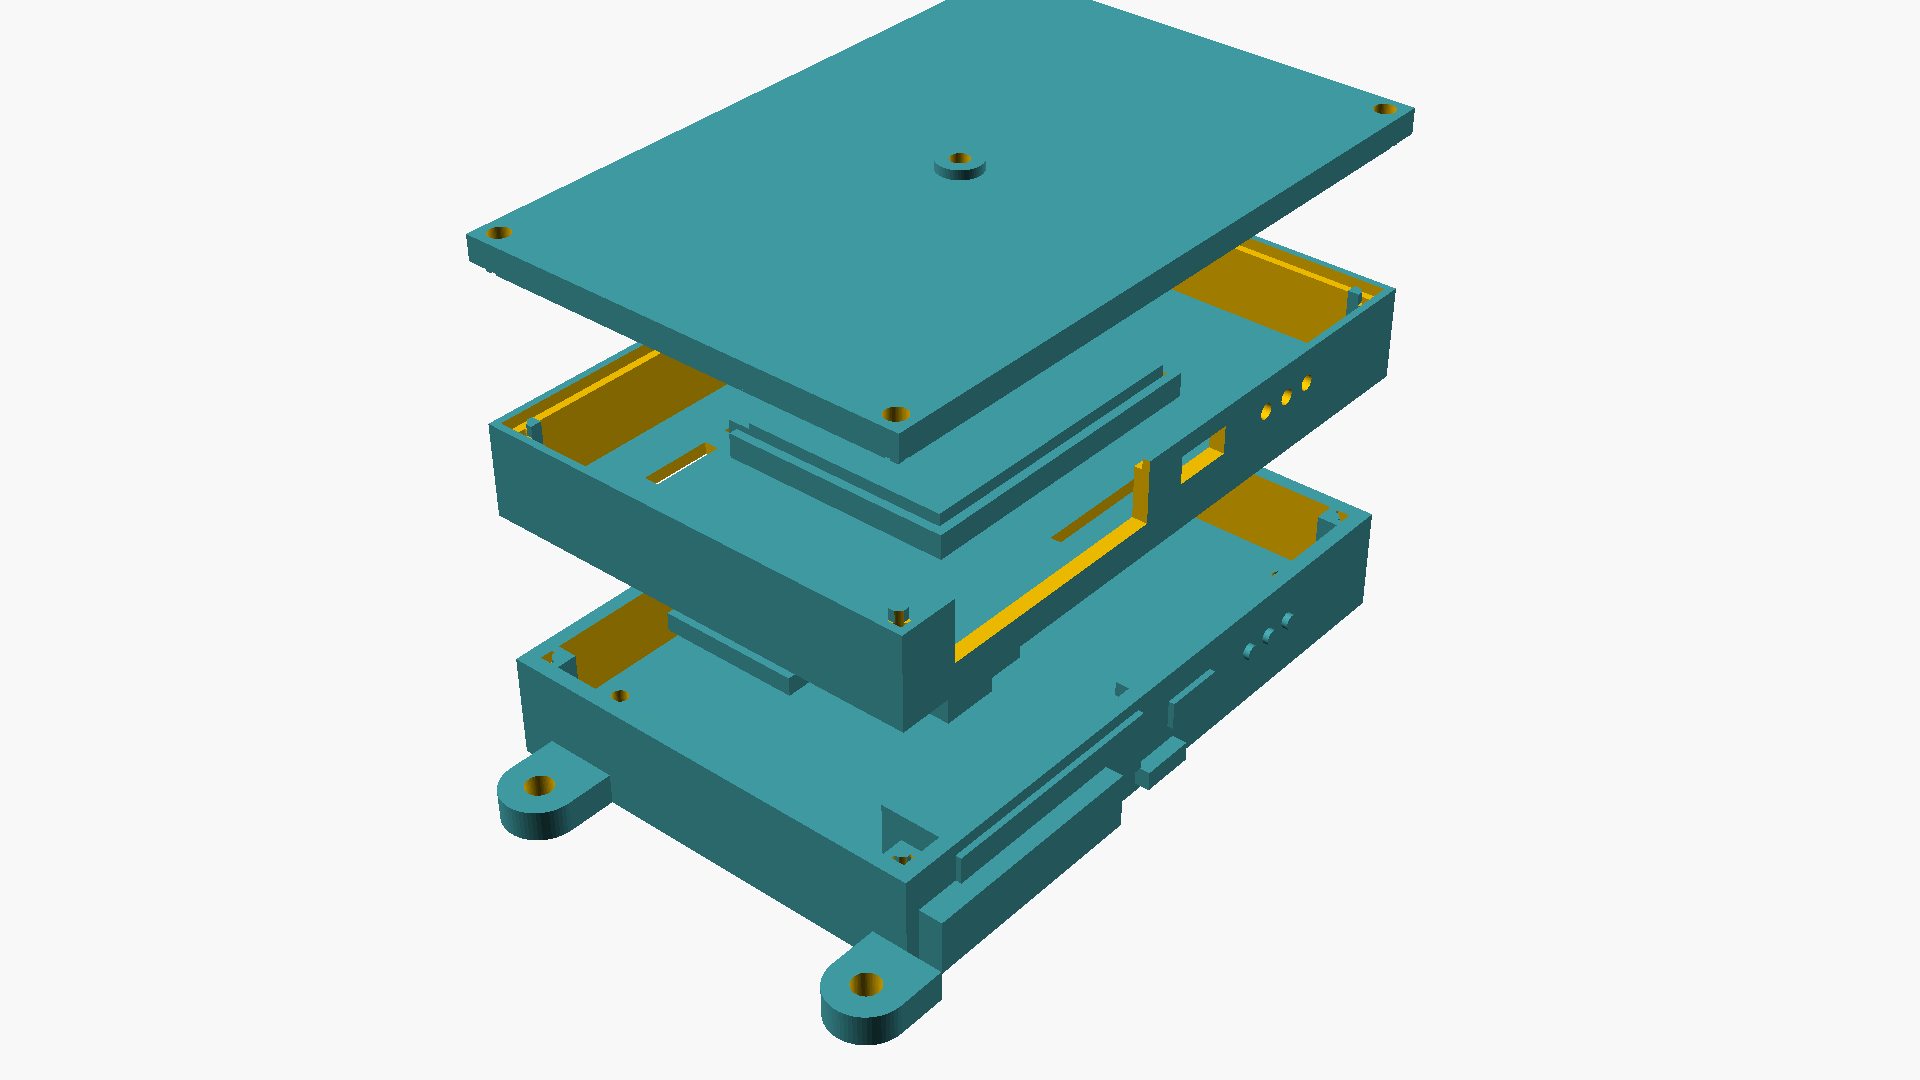
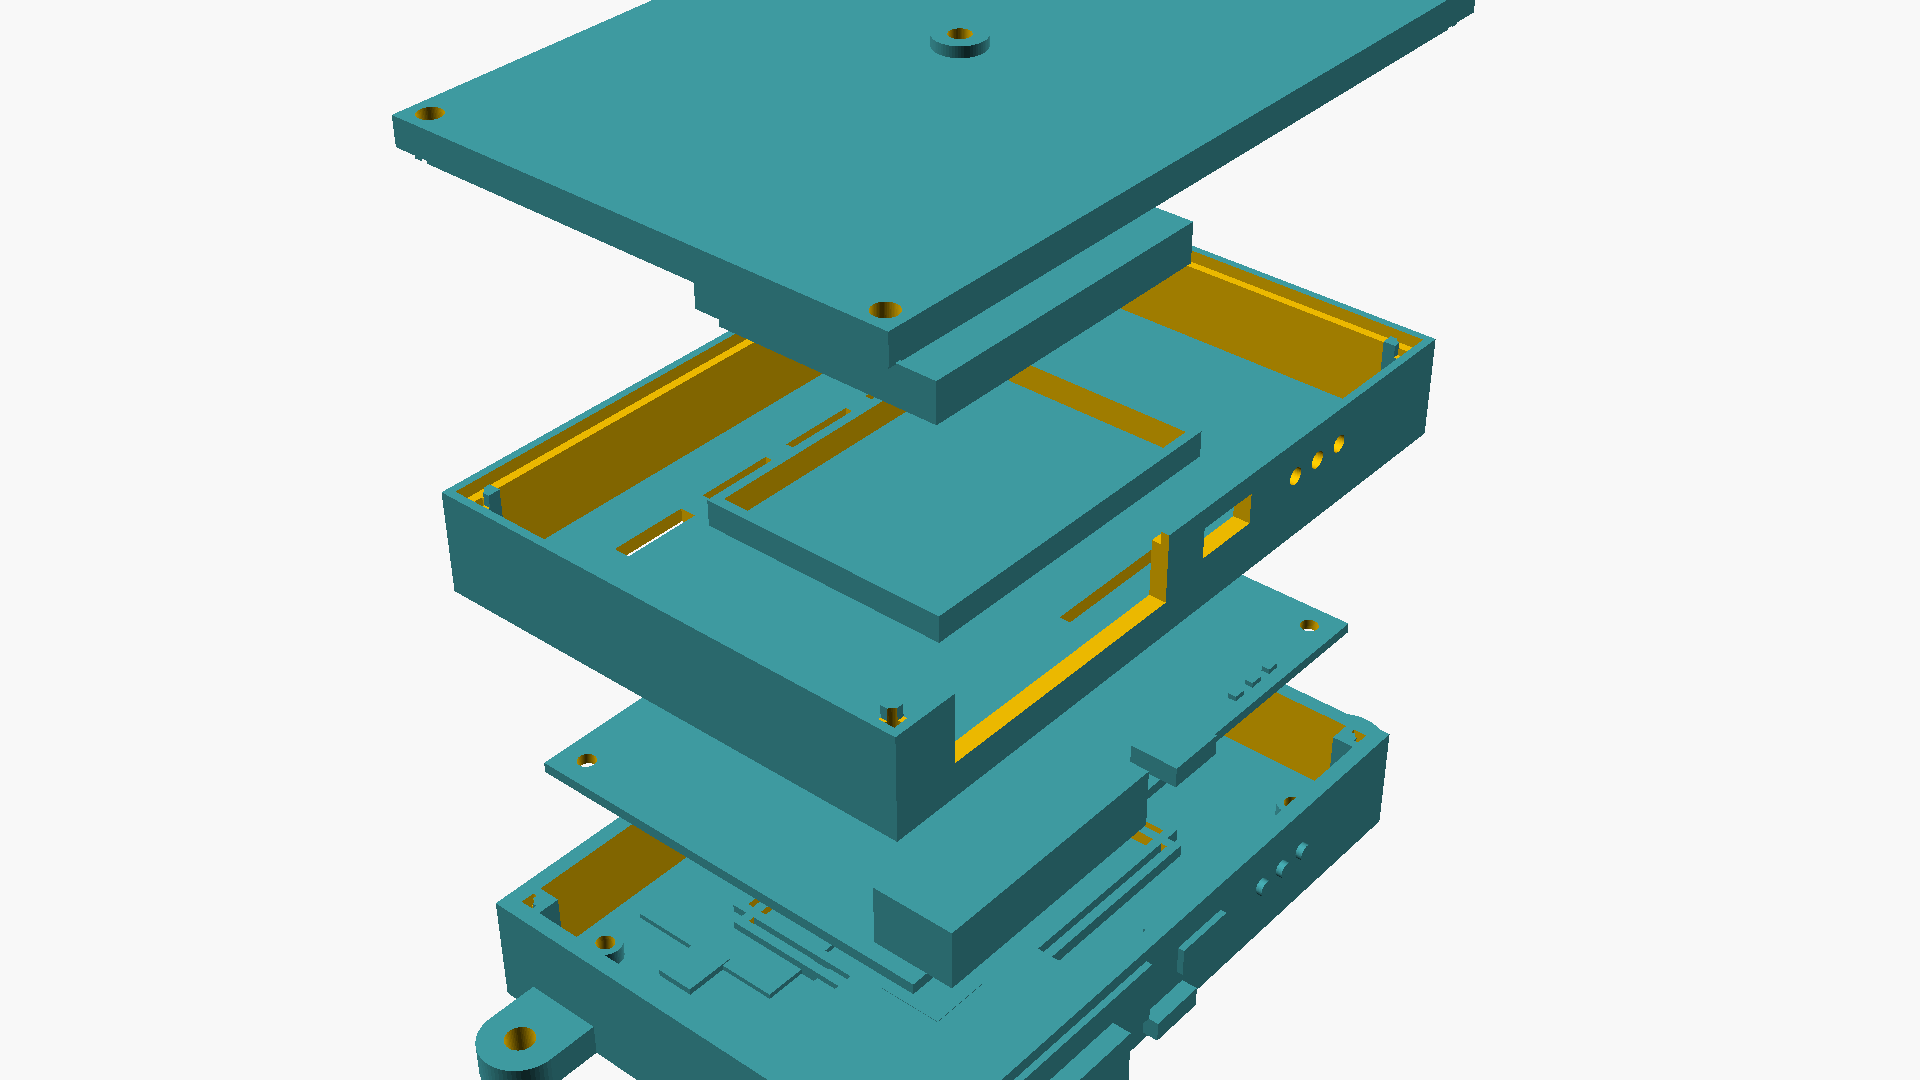
fix(cad): resolve overlapping exploded layers in main_box_full_assembly_exploded_3d with true 6-tier vertical separation

diff --git a/hardware/scripts/build_cad_from_openscad.py b/hardware/scripts/build_cad_from_openscad.py
@@ -77,7 +77,7 @@ RENDER_TARGETS: List[Tuple[str, str, str, str]] = [
     (
         "01_main_box/99_overall_box.scad",
         os.path.join(CAD_IMG_DIR, "main_box_full_assembly_exploded_3d.png"),
-        "55,37,25,55,0,310,400",
+        "55,37,65,55,0,310,360",
         "Tomorrow"
     ),
     (
